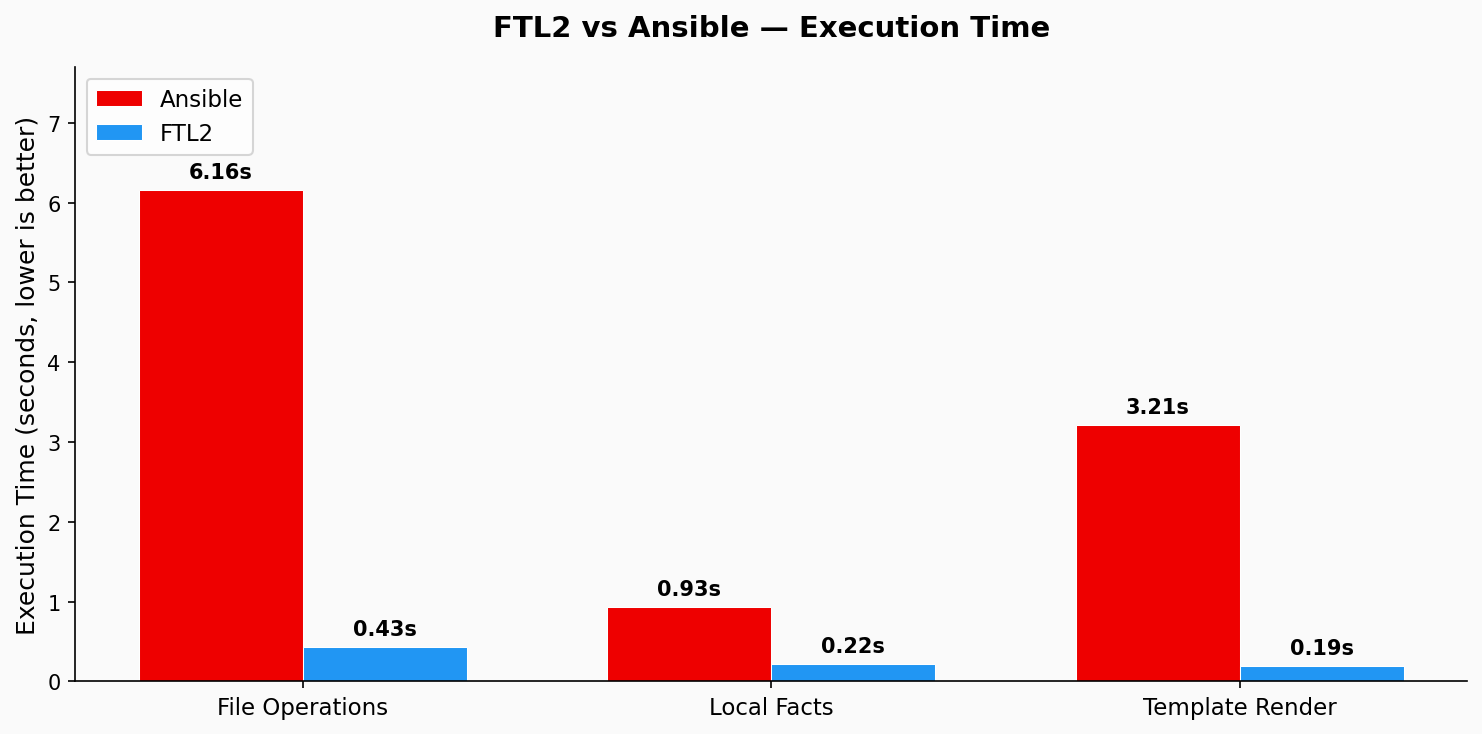
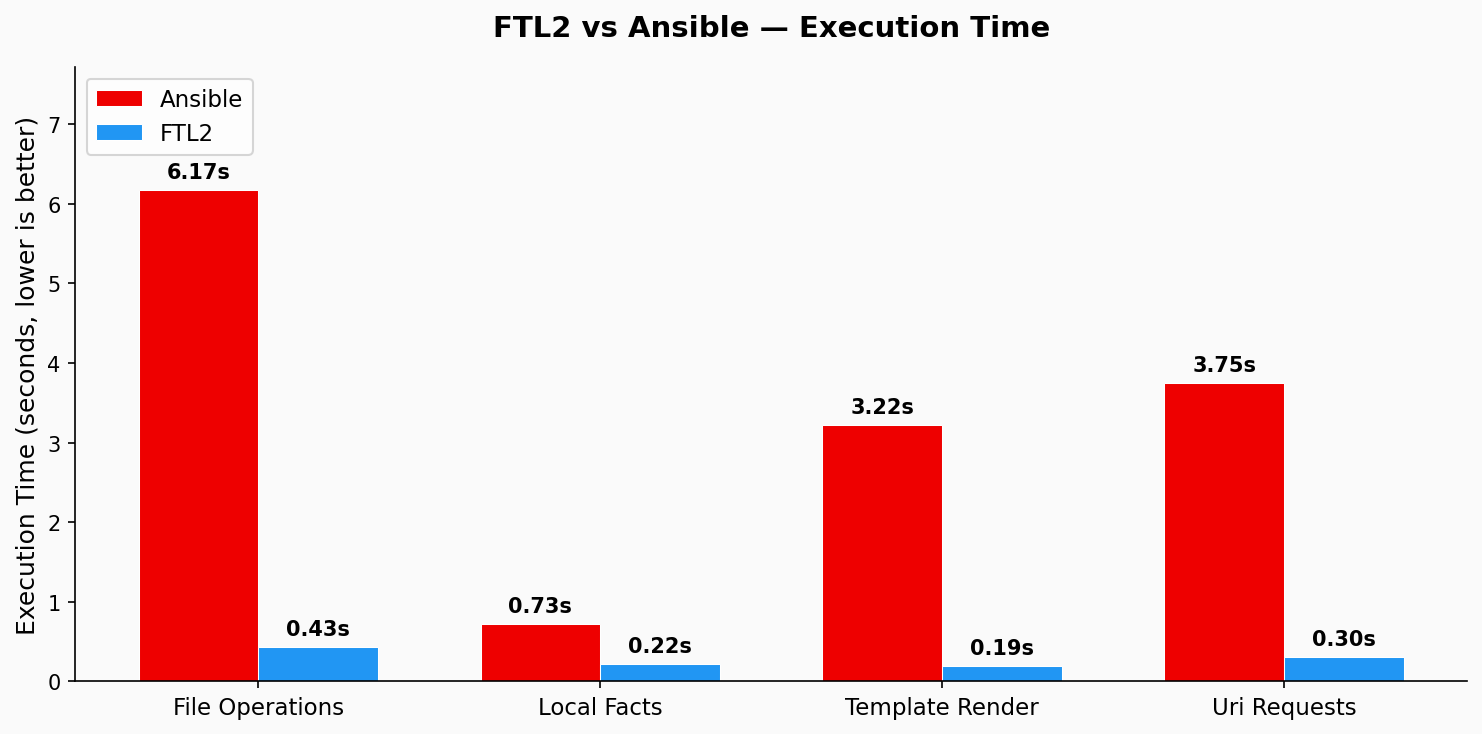
Add URI requests benchmark with local HTTP server
15 requests (10 GET + 5 POST JSON) against a local http.server.
Runner auto-starts/stops server.py when present in a benchmark dir.
Results: 12.4x speedup (3.75s Ansible vs 0.30s FTL2).

Changed region(s): [[0.0931, 0.2098, 0.9622, 0.9891], [0.4656, 0.9591, 0.7139, 0.9891], [0.3725, 0.9591, 0.4345, 0.9891]]

diff --git a/run_benchmark.py b/run_benchmark.py
@@ -18,9 +18,11 @@ import argparse
 import importlib
 import importlib.util
 import json
+import signal
 import subprocess
 import sys
 import time
+import urllib.request
 from pathlib import Path
 
 ROOT_DIR = Path(__file__).parent
@@ -119,6 +121,43 @@ def run_ftl2_script(script: Path) -> tuple[bool, float, str]:
     return result.returncode == 0, elapsed, result.stderr
 
 
+def start_server(bench_dir: Path) -> subprocess.Popen | None:
+    """Start server.py if it exists in the benchmark directory."""
+    server_script = bench_dir / "server.py"
+    if not server_script.exists():
+        return None
+
+    proc = subprocess.Popen(
+        [sys.executable, str(server_script)],
+        stdout=subprocess.PIPE,
+        stderr=subprocess.PIPE,
+    )
+
+    # Wait for server to be ready
+    for _ in range(50):
+        try:
+            urllib.request.urlopen("http://127.0.0.1:9199/health", timeout=1)
+            return proc
+        except Exception:
+            time.sleep(0.1)
+
+    proc.kill()
+    print("  ERROR: Server failed to start")
+    return None
+
+
+def stop_server(proc: subprocess.Popen | None):
+    """Stop a running server process."""
+    if proc is None:
+        return
+    proc.terminate()
+    try:
+        proc.wait(timeout=3)
+    except subprocess.TimeoutExpired:
+        proc.kill()
+        proc.wait()
+
+
 def run_benchmark(name: str, runs: int = 3) -> dict:
     """Run a single benchmark, returning timing results."""
     bench_dir = BENCHMARKS_DIR / name
@@ -138,59 +177,71 @@ def run_benchmark(name: str, runs: int = 3) -> dict:
     print(f"  {runs} run(s) each")
     print(f"{'=' * 60}")
 
+    # Start server if benchmark needs one
+    server = start_server(bench_dir)
+    if (bench_dir / "server.py").exists() and server is None:
+        return {"name": name, "description": description, "runs": runs,
+                "ansible": {"error": "server failed"}, "ftl2": {"error": "server failed"}}
+    if server:
+        print("  Server started on :9199")
+
     results = {"name": name, "description": description, "runs": runs}
 
-    # --- Ansible ---
-    playbook = bench_dir / "playbook.yml"
-    if playbook.exists():
-        ansible_times = []
-        inventory = str(bench_dir / "inventory") if (bench_dir / "inventory").exists() else "localhost,"
-        for i in range(runs):
-            success, elapsed, stderr = run_ansible_playbook(playbook, inventory)
-            status = "ok" if success else "FAIL"
-            print(f"  Ansible  run {i+1}/{runs}: {elapsed:.3f}s [{status}]")
-            if not success and i == 0:
-                # Show first failure's stderr for debugging
-                for line in stderr.strip().splitlines()[-3:]:
-                    print(f"           {line}")
-            if success:
-                ansible_times.append(elapsed)
-        if ansible_times:
-            results["ansible"] = {
-                "times": ansible_times,
-                "mean": sum(ansible_times) / len(ansible_times),
-                "min": min(ansible_times),
-                "max": max(ansible_times),
-            }
+    try:
+            # --- Ansible ---
+        playbook = bench_dir / "playbook.yml"
+        if playbook.exists():
+            ansible_times = []
+            inventory = str(bench_dir / "inventory") if (bench_dir / "inventory").exists() else "localhost,"
+            for i in range(runs):
+                success, elapsed, stderr = run_ansible_playbook(playbook, inventory)
+                status = "ok" if success else "FAIL"
+                print(f"  Ansible  run {i+1}/{runs}: {elapsed:.3f}s [{status}]")
+                if not success and i == 0:
+                    # Show first failure's stderr for debugging
+                    for line in stderr.strip().splitlines()[-3:]:
+                        print(f"           {line}")
+                if success:
+                    ansible_times.append(elapsed)
+            if ansible_times:
+                results["ansible"] = {
+                    "times": ansible_times,
+                    "mean": sum(ansible_times) / len(ansible_times),
+                    "min": min(ansible_times),
+                    "max": max(ansible_times),
+                }
+            else:
+                results["ansible"] = {"error": "all runs failed"}
         else:
-            results["ansible"] = {"error": "all runs failed"}
-    else:
-        print("  Ansible: no playbook.yml found, skipping")
+            print("  Ansible: no playbook.yml found, skipping")
 
-    # --- FTL2 ---
-    ftl2_script = bench_dir / "ftl2_script.py"
-    if ftl2_script.exists():
-        ftl2_times = []
-        for i in range(runs):
-            success, elapsed, stderr = run_ftl2_script(ftl2_script)
-            status = "ok" if success else "FAIL"
-            print(f"  FTL2     run {i+1}/{runs}: {elapsed:.3f}s [{status}]")
-            if not success and i == 0:
-                for line in stderr.strip().splitlines()[-3:]:
-                    print(f"           {line}")
-            if success:
-                ftl2_times.append(elapsed)
-        if ftl2_times:
-            results["ftl2"] = {
-                "times": ftl2_times,
-                "mean": sum(ftl2_times) / len(ftl2_times),
-                "min": min(ftl2_times),
-                "max": max(ftl2_times),
-            }
+        # --- FTL2 ---
+        ftl2_script = bench_dir / "ftl2_script.py"
+        if ftl2_script.exists():
+            ftl2_times = []
+            for i in range(runs):
+                success, elapsed, stderr = run_ftl2_script(ftl2_script)
+                status = "ok" if success else "FAIL"
+                print(f"  FTL2     run {i+1}/{runs}: {elapsed:.3f}s [{status}]")
+                if not success and i == 0:
+                    for line in stderr.strip().splitlines()[-3:]:
+                        print(f"           {line}")
+                if success:
+                    ftl2_times.append(elapsed)
+            if ftl2_times:
+                results["ftl2"] = {
+                    "times": ftl2_times,
+                    "mean": sum(ftl2_times) / len(ftl2_times),
+                    "min": min(ftl2_times),
+                    "max": max(ftl2_times),
+                }
+            else:
+                results["ftl2"] = {"error": "all runs failed"}
         else:
-            results["ftl2"] = {"error": "all runs failed"}
-    else:
-        print("  FTL2: no ftl2_script.py found, skipping")
+            print("  FTL2: no ftl2_script.py found, skipping")
+
+    finally:
+        stop_server(server)
 
     # --- Summary ---
     if "mean" in results.get("ansible", {}) and "mean" in results.get("ftl2", {}):

diff --git a/benchmarks/uri_requests/server.py b/benchmarks/uri_requests/server.py
@@ -1,0 +1,64 @@
+"""Minimal HTTP server for URI benchmarks.
+
+Provides:
+    GET  /status       -> {"status": "ok"}
+    POST /data         -> echoes back the JSON body with {"received": <body>}
+    GET  /health       -> 200 (used to check server is ready)
+
+Usage:
+    python server.py              # starts on port 9199
+    python server.py --port 9200  # custom port
+"""
+
+import argparse
+import json
+from http.server import HTTPServer, BaseHTTPRequestHandler
+
+
+class BenchHandler(BaseHTTPRequestHandler):
+    def do_GET(self):
+        if self.path == "/status" or self.path == "/health":
+            self._json_response(200, {"status": "ok"})
+        else:
+            self._json_response(404, {"error": "not found"})
+
+    def do_POST(self):
+        if self.path == "/data":
+            length = int(self.headers.get("Content-Length", 0))
+            body = self.rfile.read(length) if length else b""
+            try:
+                parsed = json.loads(body) if body else None
+            except json.JSONDecodeError:
+                parsed = body.decode(errors="replace")
+            self._json_response(200, {"received": parsed})
+        else:
+            self._json_response(404, {"error": "not found"})
+
+    def _json_response(self, status, data):
+        body = json.dumps(data).encode()
+        self.send_response(status)
+        self.send_header("Content-Type", "application/json")
+        self.send_header("Content-Length", str(len(body)))
+        self.end_headers()
+        self.wfile.write(body)
+
+    def log_message(self, format, *args):
+        pass  # silence request logging
+
+
+def main():
+    parser = argparse.ArgumentParser()
+    parser.add_argument("--port", type=int, default=9199)
+    args = parser.parse_args()
+
+    server = HTTPServer(("127.0.0.1", args.port), BenchHandler)
+    print(f"Bench server listening on http://127.0.0.1:{args.port}")
+    try:
+        server.serve_forever()
+    except KeyboardInterrupt:
+        pass
+    server.server_close()
+
+
+if __name__ == "__main__":
+    main()

diff --git a/benchmarks/uri_requests/ftl2_script.py b/benchmarks/uri_requests/ftl2_script.py
@@ -1,0 +1,32 @@
+#!/usr/bin/env python3
+"""HTTP requests via FTL2 uri module."""
+import asyncio
+import json
+from ftl2 import automation
+
+
+BASE_URL = "http://127.0.0.1:9199"
+
+
+async def main():
+    async with automation() as ftl:
+        # 10x GET
+        for i in range(10):
+            await ftl.local.uri(
+                url=f"{BASE_URL}/status",
+                method="GET",
+                return_content=True,
+            )
+
+        # 5x POST with JSON body
+        for i in range(5):
+            await ftl.local.uri(
+                url=f"{BASE_URL}/data",
+                method="POST",
+                body=json.dumps({"name": f"benchmark-{i}", "value": i}),
+                headers={"Content-Type": "application/json"},
+                status_code=200,
+            )
+
+
+asyncio.run(main())

diff --git a/benchmarks/uri_requests/bench.py b/benchmarks/uri_requests/bench.py
@@ -1,0 +1,3 @@
+"""HTTP requests via uri module — measures per-request subprocess overhead."""
+
+DESCRIPTION = "10x GET + 5x POST JSON to local server (15 requests)"
